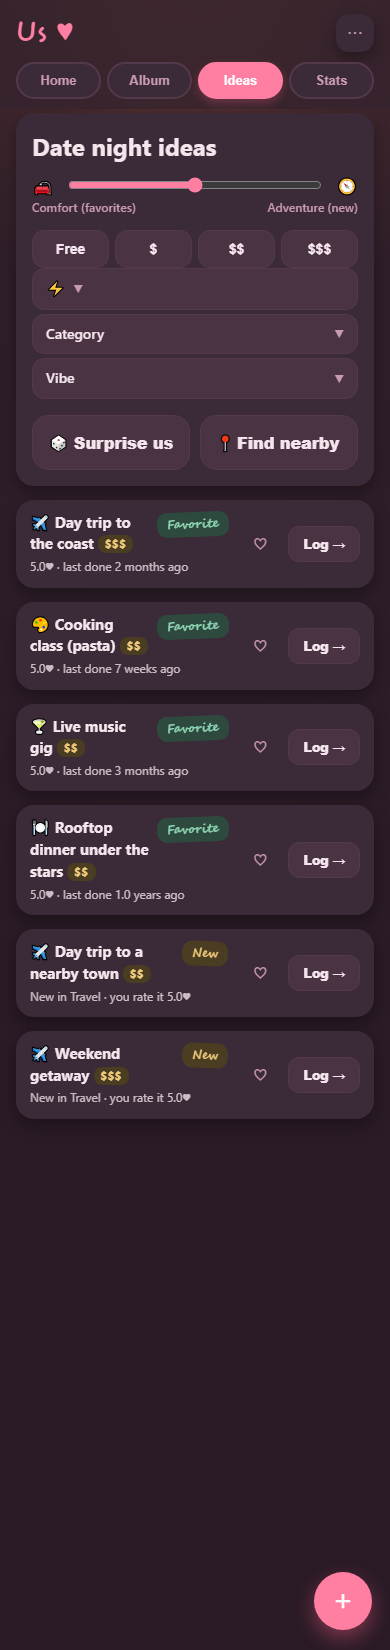
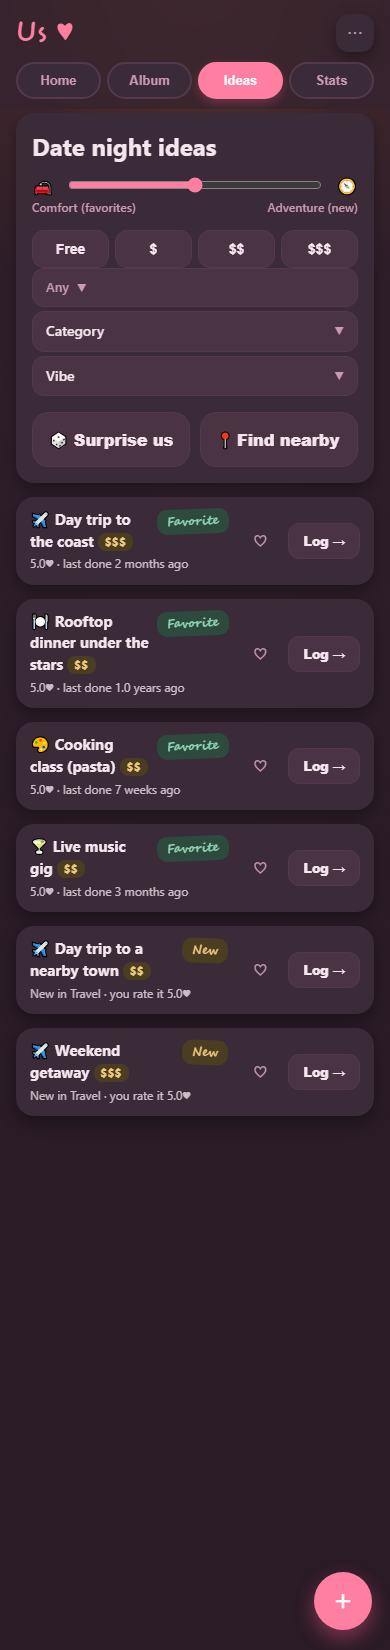
Ideas play-test round: five fixes
- Zero-match filters now show the empty state instead of silently
  ignoring every active filter
- Vibe filter matches v2 free-text vibes (was legacy-mood-only)
- Effort pill reads 'Any' when off (was identical to max=1)
- Wishlist heart is a toggle — tap the ✓ to un-save
- Cold-start slider is dimmed with an 'unlocks after your first
  logged date' hint instead of being a dead control

Found by an agent play-test of the Ideas tab. logic 39/39, smoke pass.

diff --git a/js/ui.js b/js/ui.js
@@ -1619,23 +1619,26 @@ function renderInsights() {
 function renderSuggest() {
   const v = viewEl();
   const results = suggest(done(), { ...sug, jitter: false });
+  const coldStart = done().length === 0;
 
   v.innerHTML = `
     <section class="card">
       <h2 style="margin:0 0 10px">Date night ideas</h2>
-      <div class="slider-row">
+      <div class="slider-row" style="${coldStart ? "opacity:.45" : ""}">
         <span title="repeat favorites">🛋</span>
-        <input id="s-explore" type="range" min="0" max="100" value="${Math.round(sug.explore * 100)}"/>
+        <input id="s-explore" type="range" min="0" max="100" value="${Math.round(sug.explore * 100)}" ${coldStart ? "disabled" : ""}/>
         <span title="try new things">🧭</span>
       </div>
-      <div class="slider-ends"><span>Comfort (favorites)</span><span>Adventure (new)</span></div>
+      ${coldStart
+        ? `<div class="slider-ends"><span class="muted-hint">unlocks after your first logged date</span></div>`
+        : `<div class="slider-ends"><span>Comfort (favorites)</span><span>Adventure (new)</span></div>`}
 
       <div class="seg4" id="s-budget" style="margin-top:14px">
         ${COST_TIERS.map(t => `<button class="${sug.budgetTier === t.key ? "on" : ""}" data-btier="${t.key}">${t.label}</button>`).join("")}
       </div>
       <details class="filter-group effort" id="s-effort-group">
         <summary>
-          <span class="fg-right"><span class="fg-badge">${sug.maxEffort ? "⚡".repeat(sug.maxEffort) : "⚡"}</span></span>
+          <span class="fg-right"><span class="fg-badge${sug.maxEffort ? "" : " muted"}">${sug.maxEffort ? "⚡".repeat(sug.maxEffort) : "Any"}</span></span>
           <span class="fg-arrow">▼</span>
         </summary>
         <div class="chips-row" id="s-effort">
@@ -1723,7 +1726,7 @@ function renderSugCards(results) {
       </div>
       <div class="sug-actions">
         ${isSaved
-          ? `<button class="heart-btn" disabled aria-label="Saved">✓</button>`
+          ? `<button class="heart-btn" data-unsave='${payload}' aria-label="Remove from wishlist">✓</button>`
           : `<button class="heart-btn" data-save='${payload}' aria-label="Wishlist">♡</button>`}
         <button class="btn secondary small" data-log='${payload}'>Log →</button>
       </div>
@@ -1764,7 +1767,7 @@ function wireSuggest() {
     sug.maxEffort = b.dataset.seffort === "" ? null : Number(b.dataset.seffort);
     setOn(v.querySelectorAll("#s-effort .chip-sm"), b);
     const badge = v.querySelector("#s-effort-group summary .fg-badge");
-    if (badge) badge.textContent = sug.maxEffort ? "⚡".repeat(sug.maxEffort) : "⚡";
+    if (badge) { badge.textContent = sug.maxEffort ? "⚡".repeat(sug.maxEffort) : "Any"; badge.classList.toggle("muted", !sug.maxEffort); }
     v.querySelector("#s-effort-group").open = false;
     rerun();
   });
@@ -1846,6 +1849,16 @@ function wireLogButtons() {
     await db.putDate(idea);
     await reload();
     toast("Saved to wishlist ♡");
+    const host = v.querySelector("#sug-results");
+    if (host) { host.innerHTML = renderSugCards(suggest(done(), { ...sug, jitter: false })); wireLogButtons(); loadSugPhotos(); }
+  }));
+  v.querySelectorAll("[data-unsave]").forEach(b => b.addEventListener("click", async () => {
+    const seed = JSON.parse(b.dataset.unsave);
+    const k = normTitle(seed.title);
+    const idea = dates.find(e => e.status === "idea" && normTitle(e.title) === k);
+    if (idea) await db.deleteDate(idea.id);
+    await reload();
+    toast("Removed from wishlist");
     const host = v.querySelector("#sug-results");
     if (host) { host.innerHTML = renderSugCards(suggest(done(), { ...sug, jitter: false })); wireLogButtons(); loadSugPhotos(); }
   }));

diff --git a/js/suggest.js b/js/suggest.js
@@ -9,7 +9,8 @@
 // own past activities (exploit pool) plus unseen ideas from the seed catalog (explore pool).
 
 import { CATALOG } from "./catalog.js";
-import { catLabel, normTitle, entryTimeMs } from "./model.js";
+import { catLabel, normTitle, entryTimeMs, MOOD_OPTIONS } from "./model.js";
+const MOOD_LABEL = Object.fromEntries(MOOD_OPTIONS.map(m => [m.key, m.label]));
 import { mean } from "./analytics.js";
 
 const HALFLIFE_DAYS = 120;   // recency weighting for past enjoyment
@@ -38,14 +39,17 @@ export function suggest(dates, opts = {}) {
     const t = entryTimeMs(d);
     const k = normTitle(d.title);
     const dMoods = Array.isArray(d.mood) ? d.mood : [];
+    const dVibe = (d.vibe || "").trim().toLowerCase();
     if (k) {
-      if (!acts.has(k)) acts.set(k, { title: d.title, category: d.category, items: [], lastMs: 0, moods: new Set() });
+      if (!acts.has(k)) acts.set(k, { title: d.title, category: d.category, items: [], lastMs: 0, moods: new Set(), vibes: new Set() });
       const a = acts.get(k); a.items.push(d); a.lastMs = Math.max(a.lastMs, t);
       for (const m of dMoods) a.moods.add(m);
+      if (dVibe) a.vibes.add(dVibe);
     }
-    if (!cats.has(d.category)) cats.set(d.category, { items: [], lastMs: 0, moods: new Set() });
+    if (!cats.has(d.category)) cats.set(d.category, { items: [], lastMs: 0, moods: new Set(), vibes: new Set() });
     const c = cats.get(d.category); c.items.push(d); c.lastMs = Math.max(c.lastMs, t);
     for (const m of dMoods) c.moods.add(m);
+    if (dVibe) c.vibes.add(dVibe);
   }
   const globalAvg = N ? mean(dates.map(d => d.enjoyment)) : NEUTRAL;
 
@@ -84,16 +88,21 @@ export function suggest(dates, opts = {}) {
     if (moods.length) {
       const actMoods = acts.get(normTitle(c.title))?.moods;
       const catMoods = cats.get(c.category)?.moods;
-      const known = actMoods?.size || catMoods?.size;
+      const actVibe = acts.get(normTitle(c.title))?.vibes;
+      const catVibe = cats.get(c.category)?.vibes;
+      const known = actMoods?.size || catMoods?.size || actVibe?.size || catVibe?.size;
       if (known) {
-        const match = moods.some(m => actMoods?.has(m) || catMoods?.has(m));
+        const match = moods.some(m => {
+          if (actMoods?.has(m) || catMoods?.has(m)) return true;
+          const label = (MOOD_LABEL[m] || m).toLowerCase();
+          return actVibe?.has(label) || catVibe?.has(label);
+        });
         if (!match) return false;
       }
       // no mood history at all → include (benefit of the doubt for explore ideas)
     }
     return true;
   });
-  if (!pool.length) pool = candidates; // never return nothing because of filters
 
   if (jitter) for (const c of pool) c.score += (Math.random() - 0.5) * 0.5 * (0.4 + explore);
 

diff --git a/css/styles.css b/css/styles.css
@@ -283,6 +283,7 @@ input:focus, textarea:focus, select:focus { outline: 2px solid var(--accent); bo
 .slider-row { display: flex; align-items: center; gap: 12px; margin: 6px 0 2px; }
 .slider-row input[type=range] { flex: 1; accent-color: var(--accent); }
 .slider-ends { display: flex; justify-content: space-between; font-size: 12px; font-weight: 600; color: var(--muted); }
+.slider-ends .muted-hint { width: 100%; text-align: center; font-weight: 500; font-style: italic; }
 .sug-card { position: relative; display: flex; align-items: center; gap: 10px; padding: 12px 14px; } /* New/Favorite lives in the .tag pill; no side border */
 .sug-card.flash { animation: sug-flash 1.5s ease-out; }
 @keyframes sug-flash {
@@ -339,6 +340,7 @@ input:focus, textarea:focus, select:focus { outline: 2px solid var(--accent); bo
    chip row in the same spot (card height doesn't grow a line). */
 .filter-group.effort summary { justify-content: flex-start; gap: 8px; }
 .filter-group.effort summary .fg-badge { background: transparent; color: var(--text); padding: 0; font-size: 15px; font-weight: 700; }
+.filter-group.effort summary .fg-badge.muted { color: var(--muted); font-weight: 500; font-size: 13px; }
 .filter-group.effort[open] > summary { display: none; }
 .filter-group.effort .chips-row {
   display: none; align-items: center; gap: 6px;
